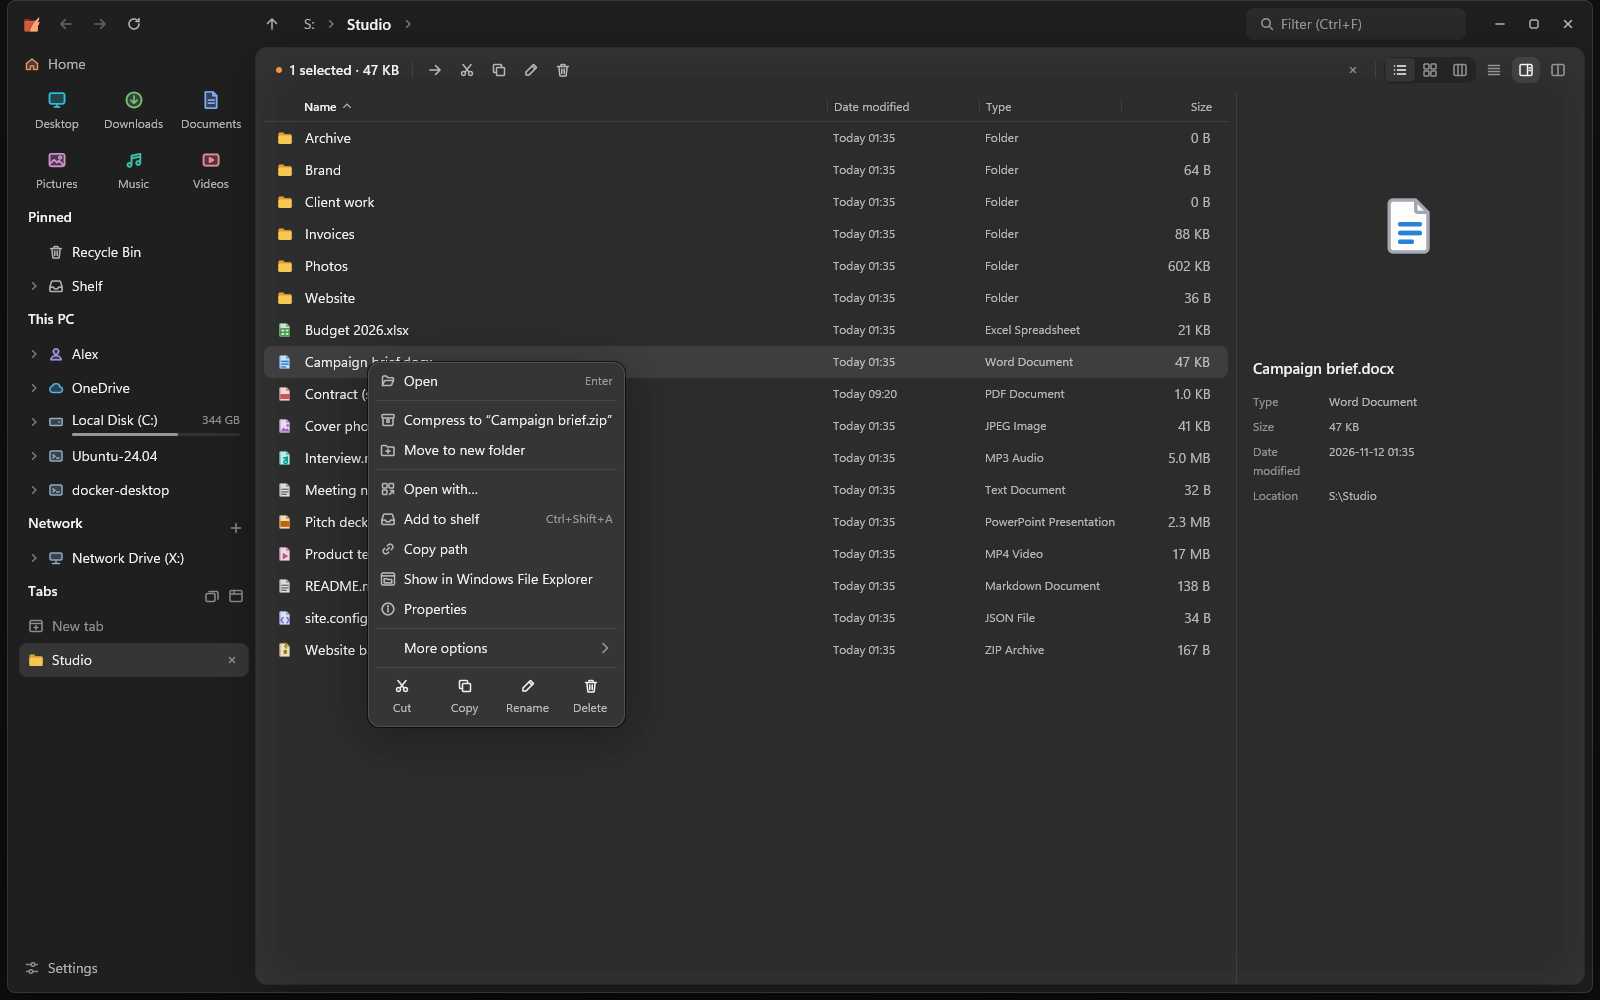
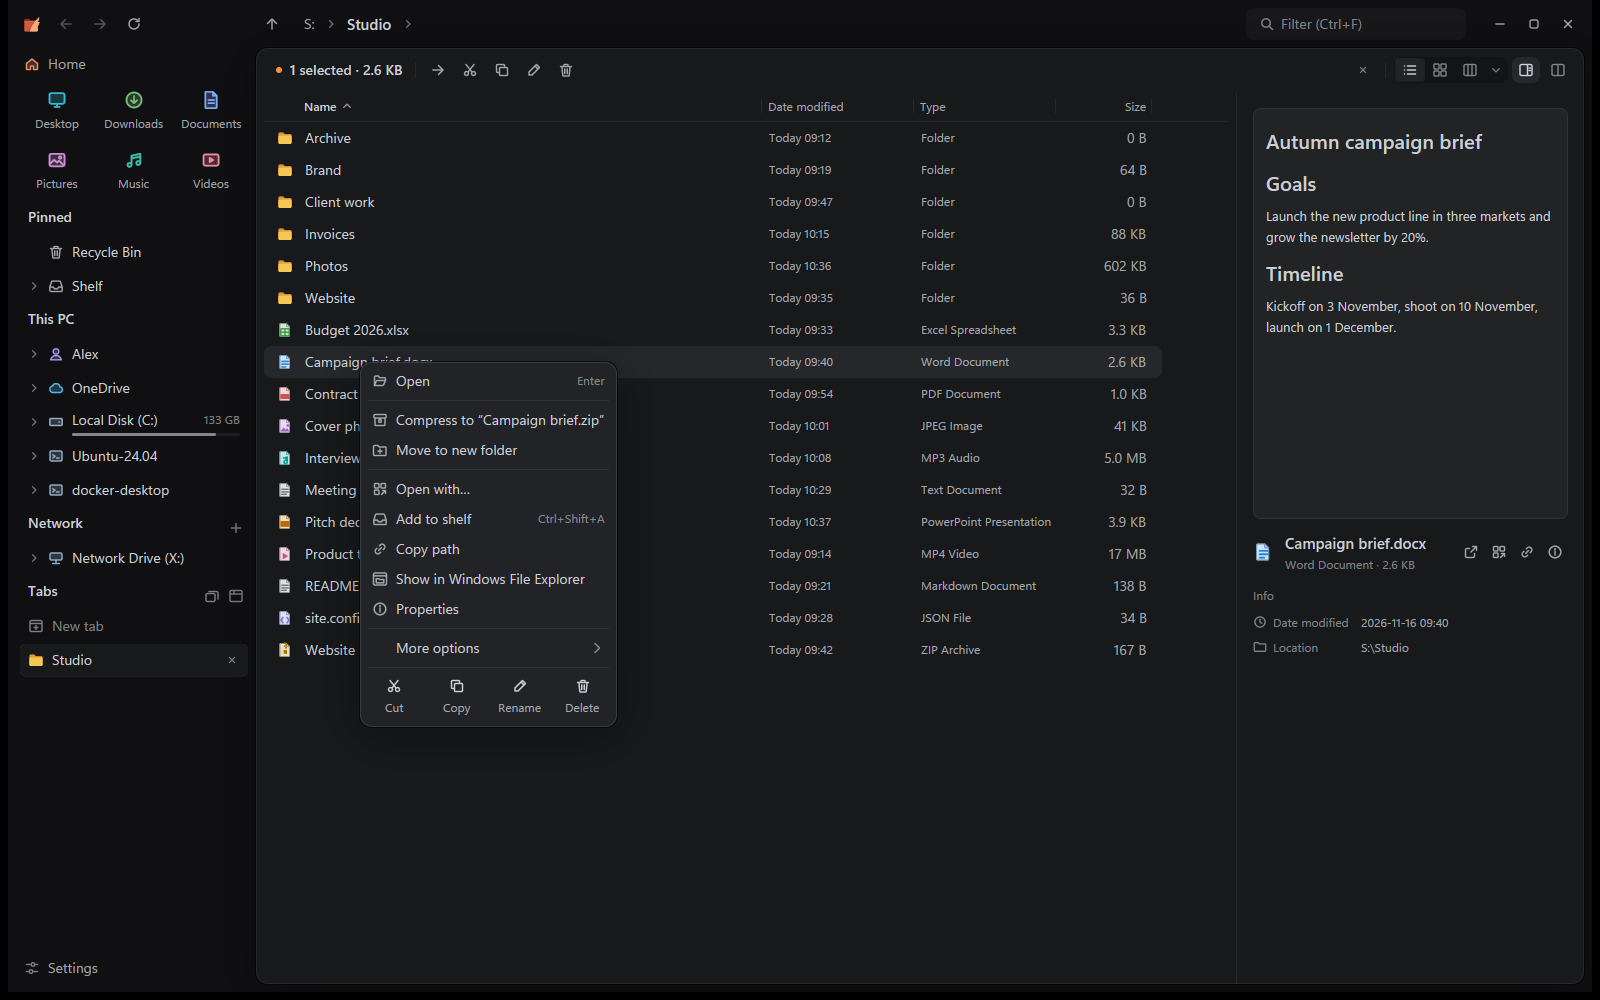
docs(readme): new screenshots of 0.5; Quick Look and themes

diff --git a/README.zh-CN.md b/README.zh-CN.md
@@ -39,8 +39,16 @@ NTFS 的主文件表，几秒就能为几百万个文件建好索引，并持续
     <td width="50%"><img src=".github/assets/context-menu.png" alt="Arke 的右键菜单"></td>
   </tr>
   <tr>
-    <td>详细信息、图标、分栏三种视图，浅色和深色主题，可以换强调色和背景。</td>
+    <td>详细信息、图标、分栏三种视图，大部分文件都能在预览窗格里直接查看。</td>
     <td>Arke 自己的右键菜单，弹出很快；完整的 Windows 菜单也只差一步。</td>
+  </tr>
+  <tr>
+    <td width="50%"><img src=".github/assets/quick-look.png" alt="快速预览 Markdown 文件"></td>
+    <td width="50%"><img src=".github/assets/themes.png" alt="主题和强调色设置"></td>
+  </tr>
+  <tr>
+    <td>快速预览（空格键）像 GitHub 一样显示 Markdown，也能看图片、PDF、Office 文件和代码。</td>
+    <td>浅色、深色、深灰三种主题，可以换强调色、背景色调或背景图片。</td>
   </tr>
 </table>
 
@@ -50,6 +58,7 @@ NTFS 的主文件表，几秒就能为几百万个文件建好索引，并持续
 - 每个文件夹记得自己的视图和排序。
 - 标签页可以固定、存成工作区。标签页分成左右两个窗格时共用一个预览，可以同步浏览、比较文件夹。
 - 拖动时自动打开文件夹，用“暂存架”收集不同文件夹里的文件，主页有最近的文件、磁盘和网络位置。
+- 在触控板上用两指左右滑动来后退、前进，和浏览器一样。
 
 **预览**
 - 可调宽度的预览窗格和快速预览（空格键）：图片、PDF、Word、Excel、PowerPoint、带语法高亮的

diff --git a/README.zh-TW.md b/README.zh-TW.md
@@ -39,8 +39,16 @@ GPU 繪製，用 Rust 寫成，只有一個小小的執行檔。</p>
     <td width="50%"><img src=".github/assets/context-menu.png" alt="Arke 的右鍵選單"></td>
   </tr>
   <tr>
-    <td>詳細資料、圖示、欄位三種檢視，淺色與深色主題，可換強調色與背景。</td>
+    <td>詳細資料、圖示、欄位三種檢視，大部分檔案都能在預覽窗格直接看。</td>
     <td>Arke 自己的右鍵選單，速度快；完整的 Windows 選單也只差一下。</td>
+  </tr>
+  <tr>
+    <td width="50%"><img src=".github/assets/quick-look.png" alt="快速預覽 Markdown 檔案"></td>
+    <td width="50%"><img src=".github/assets/themes.png" alt="主題與強調色設定"></td>
+  </tr>
+  <tr>
+    <td>快速預覽（空白鍵）像 GitHub 一樣顯示 Markdown，也能看圖片、PDF、Office 檔和程式碼。</td>
+    <td>淺色、深色、深灰三種主題，可換強調色、背景色調或背景圖片。</td>
   </tr>
 </table>
 
@@ -50,6 +58,7 @@ GPU 繪製，用 Rust 寫成，只有一個小小的執行檔。</p>
 - 每個資料夾記得自己的檢視和排序。
 - 分頁可以固定、存成工作區。分頁分成左右兩個窗格時共用一個預覽，可以同步瀏覽、比對資料夾。
 - 拖曳時自動打開資料夾、用「暫存架」收集不同資料夾的檔案，首頁有最近的檔案、磁碟和網路位置。
+- 在觸控板上用兩指左右滑動來上一頁、下一頁，跟瀏覽器一樣。
 
 **預覽**
 - 可調寬度的預覽窗格與快速預覽（空白鍵）：圖片、PDF、Word、Excel、PowerPoint、有語法上色的

diff --git a/README.md b/README.md
@@ -45,8 +45,16 @@ Shell extensions from other programs run in a separate process, so a buggy one c
     <td width="50%"><img src=".github/assets/context-menu.png" alt="Arke's context menu"></td>
   </tr>
   <tr>
-    <td>Details, icons and columns views, light and dark themes, accent colors and backdrops.</td>
+    <td>Details, icons and columns views, with a preview pane for most kinds of files.</td>
     <td>A fast context menu of its own, with the full Windows menu one click away.</td>
+  </tr>
+  <tr>
+    <td width="50%"><img src=".github/assets/quick-look.png" alt="Quick Look showing a Markdown file"></td>
+    <td width="50%"><img src=".github/assets/themes.png" alt="Theme and accent color settings"></td>
+  </tr>
+  <tr>
+    <td>Quick Look (Space) shows Markdown the way GitHub does, and images, PDF, Office files and code.</td>
+    <td>Light, dark and dark gray themes, accent colors, and a background tint or image.</td>
   </tr>
 </table>
 
@@ -58,6 +66,7 @@ Shell extensions from other programs run in a separate process, so a buggy one c
   synchronized browsing and folder compare.
 - Spring-loaded folders, a shelf for collecting files from different folders, and a Home page
   with recent files, drives and network locations.
+- Swipe with two fingers on a touchpad to go back and forward, like in a browser.
 
 **Preview**
 - A resizable preview pane and Quick Look (Space) for images, PDF, Word, Excel and PowerPoint,
